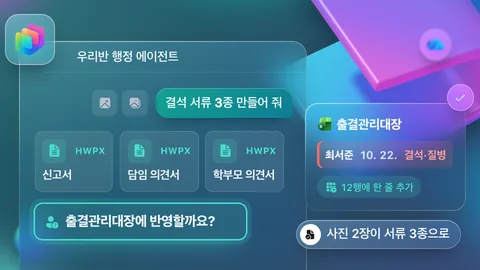
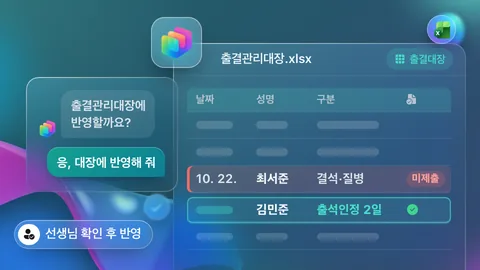
Update thumbnail for copilot-studio/hwpx-homeroom-admin-agent
행정 업무 자동화 하기

https://github.com/oneot/elevate/actions/runs/42188949724

diff --git a/tools/post-thumbs/scenes/auto/copilot-studio/hwpx-homeroom-admin-agent.js b/tools/post-thumbs/scenes/auto/copilot-studio/hwpx-homeroom-admin-agent.js
@@ -1,62 +1,53 @@
-/* copilot-studio/hwpx-homeroom-admin-agent — two photos in, three HWPX forms out, then ask before updating the ledger */
+/* copilot-studio/hwpx-homeroom-admin-agent — the attendance ledger gets a row only after the teacher says yes */
 (() => {
   scene('copilot-studio/hwpx-homeroom-admin-agent', (K) => {
-    const doc = (name) => `<div class="fd"><div class="ft"><span class="fi">${K.ico('document_text', { s: 3.2 })}</span><em>HWPX</em></div><b>${name}</b></div>`;
+    const old = `<div class="tr">${K.skel('70%')}${K.skel('60%')}${K.skel('76%')}<span></span></div>`;
     return K.win({
-      x: 4, y: 8.5, w: 60, h: 52, title: '우리반 행정 에이전트', icon: false,
-      body: `<div class="ch">
-        <div class="me">
-          <span class="ph">${K.ico('image', { s: 3 })}</span><span class="ph">${K.ico('image_multiple', { s: 3 })}</span>
-          ${K.bubble('결석 서류 3종 만들어 줘', { me: true })}
-        </div>
-        <div class="docs">${doc('신고서')}${doc('담임 의견서')}${doc('학부모 의견서')}</div>
-        <div class="ask hl">${K.ico('person_question_mark', { s: 3 })}<b>출결관리대장에 반영할까요?</b></div>
+      x: 36, y: 9, w: 61, h: 50, title: '출결관리대장.xlsx', icon: false,
+      barRight: K.chip('출결대장', { icon: 'table', tint: true }),
+      body: `<div class="lg">
+        <div class="tr th"><span>날짜</span><span>성명</span><span>구분</span><span>${K.ico('document_checkmark', { s: 2.6 })}</span></div>
+        ${old}${old}
+        <div class="tr rd"><span>10. 22.</span><b>최서준</b><span>결석·질병</span><em>미제출</em></div>
+        <div class="tr nw">${K.skel('70%', { tint: true })}<b>김민준</b><span>출석인정 2일</span><span class="ok">${K.ico('checkmark_circle', { s: 2.8 })}</span></div>
+        ${old}
       </div>`,
     })
       + K.card({
-        right: 3, y: 21.5, w: 33.5, cls: 'led',
-        body: `<p class="lh">${K.app('excel', { s: 3 })}<b>출결관리대장</b></p>
-          <div class="rw">
-            <span class="nm">최서준</span><span>10. 22.</span><span class="kd">결석·질병</span>
-          </div>
-          ${K.chip('12행에 한 줄 추가', { icon: 'table_add', tint: true })}`,
+        x: 5.5, y: 16, w: 31.5, cls: 'ask',
+        body: `<div class="bt">${K.app(null, { s: 3.6 })}${K.bubble('출결관리대장에<br>반영할까요?')}</div>
+          ${K.bubble('응, 대장에 반영해 줘', { me: true })}`,
       })
-      + K.tile({ x: 1, y: 3, s: 10.5 })
-      + K.float({ right: 1.2, y: 17.5, s: 5.6, icon: 'checkmark' })
-      + K.float({ right: 6, y: 6, app: 'onedrive', far: true })
-      + K.pill({ right: 4, bottom: 4.4, icon: 'document_checkmark', text: '사진 2장이 서류 3종으로' });
+      + K.tile({ x: 31.5, y: 3.6, s: 10.5 })
+      + K.float({ right: 5, y: 3.2, app: 'excel', s: 6 })
+      + K.float({ x: 30, y: 40.5, icon: 'checkmark', s: 5.4, far: true })
+      + K.pill({ x: 3, bottom: 4.4, icon: 'person_available', text: '선생님 확인 후 반영' });
   }, {
-    deco: { big: 'fold', small: 'sphere', v: 2 },
+    deco: { big: 'ribbon', small: 'sphere', v: 1 },
     css: `
-      .win__bar { padding-left: 12cqw; }
-      .ch { display: flex; flex-direction: column; gap: 2.6cqw; padding: 3cqw 3.2cqw; }
-      .me { display: flex; align-items: center; justify-content: flex-end; gap: 1cqw; }
-      .ph { display: grid; place-items: center; width: 5.4cqw; height: 5.4cqw; border-radius: 1.2cqw; background: rgba(255, 255, 255, .7); color: var(--ink-3); }
-      .me .bubble { margin-left: .6cqw; font-size: 2.6cqw; white-space: nowrap; }
-      .docs { display: grid; grid-template-columns: repeat(3, 1fr); gap: 1.4cqw; width: 52cqw; }
-      .ask { width: 44cqw; }
-      .fd { display: flex; flex-direction: column; align-items: flex-start; gap: 1.2cqw; padding: 1.6cqw 1.6cqw 1.8cqw; border-radius: 1.6cqw; background: rgba(255, 255, 255, .85); box-shadow: inset 0 0 0 .2cqw var(--line-2); }
-      .fi { display: grid; place-items: center; width: 5cqw; height: 5cqw; border-radius: 1.2cqw; background: color-mix(in srgb, rgb(var(--tint)) 12%, #fff); color: rgb(var(--tint)); }
-      .fd b { font-size: 2.45cqw; font-weight: 700; letter-spacing: -0.03em; white-space: nowrap; }
-      .ft { display: flex; align-items: center; justify-content: space-between; align-self: stretch; }
-      .ft em { font-style: normal; font-size: 1.9cqw; font-weight: 750; letter-spacing: .02em; color: rgb(var(--tint)); }
-      .ask { display: flex; align-items: center; gap: 1.2cqw; padding: 1.8cqw 2.2cqw; border-radius: 1.6cqw; color: rgb(var(--tint)); }
-      .ask b { font-size: 2.9cqw; font-weight: 750; letter-spacing: -0.03em; color: var(--ink); white-space: nowrap; }
-      .led { z-index: 3; display: flex; flex-direction: column; gap: 1.8cqw; padding: 2.6cqw 2.6cqw 2.8cqw; }
-      .lh { display: flex; align-items: center; gap: 1cqw; }
-      .lh b { font-size: 2.7cqw; font-weight: 750; letter-spacing: -0.03em; }
-      .rw { display: flex; align-items: center; gap: 1.4cqw; padding: 1.3cqw 1.6cqw; border-radius: 1.2cqw; font-size: 2.3cqw; font-weight: 650; white-space: nowrap;
-        background: color-mix(in srgb, var(--red) 14%, #fff); box-shadow: inset .5cqw 0 0 var(--red); color: var(--ink-2); }
-      .rw .nm { font-weight: 750; color: var(--ink); }
-      .led .chip { align-self: flex-start; font-size: 2.1cqw; }
-      .rw .kd { color: #c4302b; }
+      .win__bar { padding-left: 10cqw; }
+      .win__bar .chip { font-size: 2.2cqw; }
+      .lg { display: flex; flex-direction: column; padding: 2.6cqw 3cqw 0; }
+      .tr { display: grid; grid-template-columns: 11cqw 11cqw 17cqw 1fr; align-items: center; gap: 1.6cqw; height: 5.6cqw; padding: 0 1.8cqw;
+        border-bottom: .15cqw solid rgba(20, 22, 30, .08); font-size: 2.6cqw; font-weight: 650; white-space: nowrap; color: var(--ink-2); }
+      .tr .skel { height: 1.6cqw; }
+      .th { height: 5cqw; border-radius: 1.2cqw 1.2cqw 0 0; background: color-mix(in srgb, rgb(var(--tint)) 12%, #fff); font-size: 2.2cqw; font-weight: 700; color: var(--ink-3); }
+      .tr b { font-weight: 750; color: var(--ink); }
+      .rd { border-radius: 1cqw; background: color-mix(in srgb, var(--red) 14%, #fff); box-shadow: inset .55cqw 0 0 var(--red); }
+      .rd em { justify-self: start; padding: .4cqw 1.2cqw; border-radius: 99px; font-style: normal; font-size: 2.2cqw; font-weight: 750; color: #c4302b; background: color-mix(in srgb, var(--red) 18%, #fff); }
+      .nw { margin-top: .8cqw; border-radius: 1.2cqw; background: color-mix(in srgb, rgb(var(--tint)) 8%, #fff); box-shadow: inset 0 0 0 .25cqw rgba(var(--tint), .6); }
+      .nw span:nth-child(3) { color: rgb(var(--tint)); font-weight: 750; }
+      .ok { color: var(--green); display: flex; }
+      .ask { z-index: 3; display: flex; flex-direction: column; gap: 2cqw; padding: 2.8cqw 2.6cqw 3cqw; }
+      .bt { display: flex; align-items: flex-end; gap: 1.1cqw; }
+      .ask .bubble { max-width: none; font-size: 2.6cqw; font-weight: 650; line-height: 1.38; white-space: nowrap; }
+      .ask .bubble--me { align-self: flex-end; }
       &.dark {
-        .ph { background: rgba(255, 255, 255, .1); color: var(--ink-3); }
-        .fd { background: rgba(255, 255, 255, .09); box-shadow: inset 0 0 0 .15cqw rgba(255, 255, 255, .14); }
-        .fi { background: rgba(var(--tint), .18); }
-        .ask { background: rgba(var(--tint), .12); }
-        .rw { background: rgba(255, 107, 102, .16); }
-        .rw .kd { color: #ffa29c; }
+        .tr { border-bottom-color: rgba(255, 255, 255, .08); }
+        .th { background: rgba(var(--tint), .16); }
+        .rd { background: rgba(255, 107, 102, .16); }
+        .rd em { color: #ffa29c; background: rgba(255, 107, 102, .2); }
+        .nw { background: rgba(var(--tint), .12); }
       }
     `,
   });
